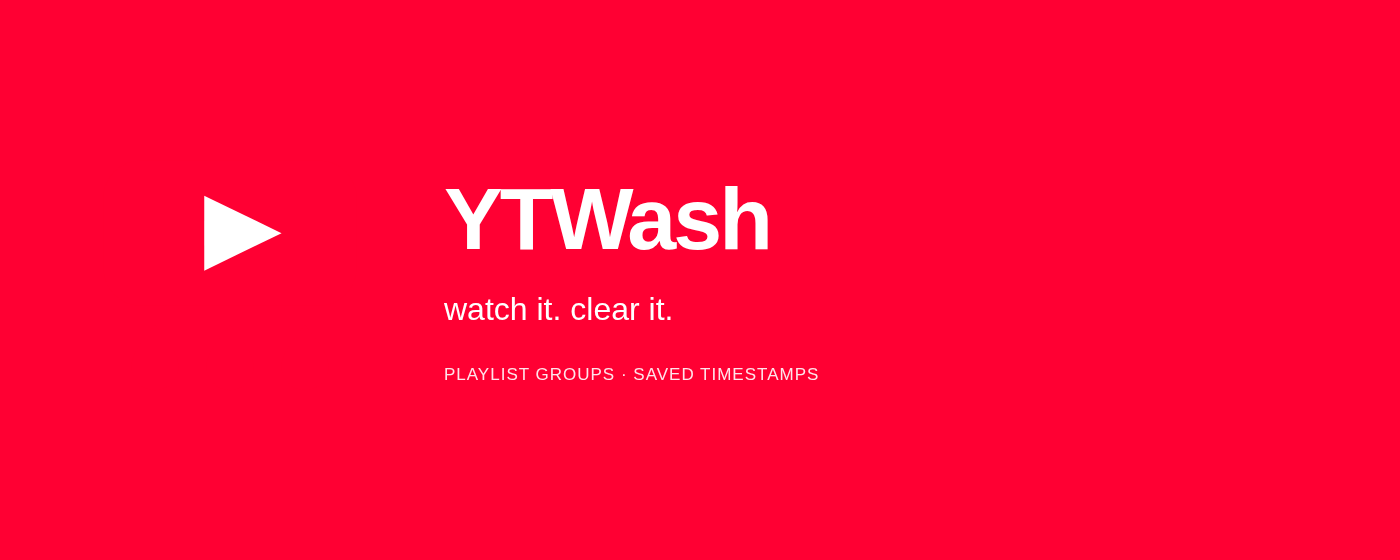
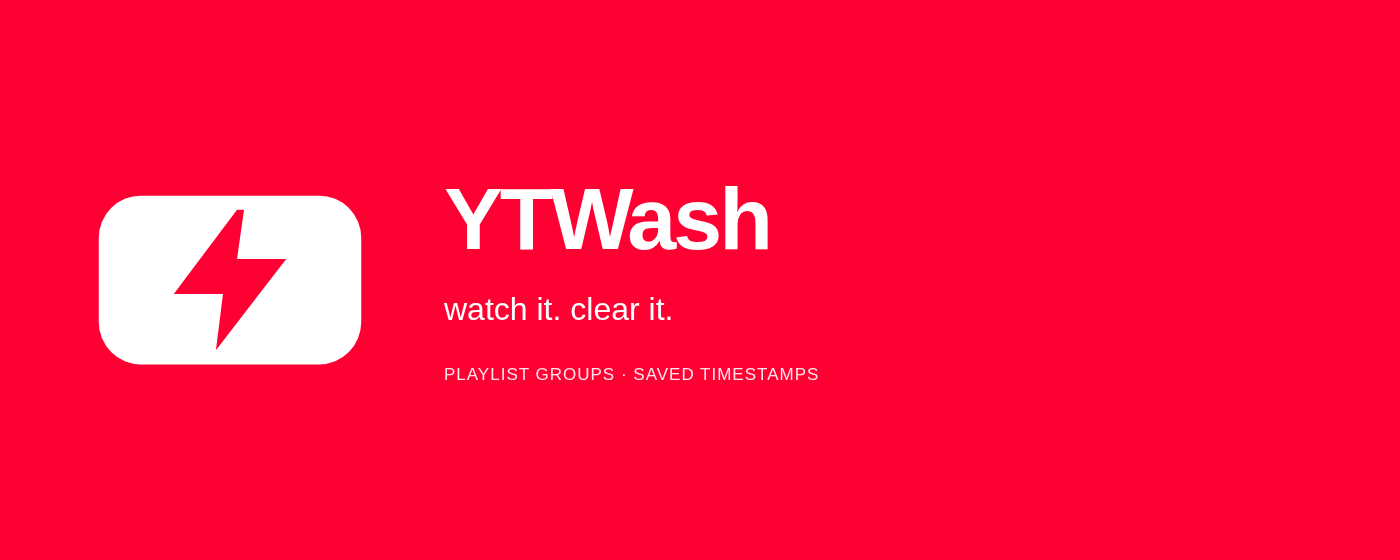
Use Save lightning symbol on a white button for branding

Changed region(s): [[0.0614, 0.3339, 0.2764, 0.6679]]

diff --git a/assets/brand/social-preview.html b/assets/brand/social-preview.html
@@ -5,5 +5,5 @@
   .copy{flex:1}h1{font-size:88px;letter-spacing:-3px;margin:0 0 24px;line-height:1}
   p{font-size:32px;line-height:1.4;margin:0;max-width:720px;font-weight:500}
   .features{font-size:17px;letter-spacing:1px;margin-top:34px;color:#ffe4eb}
-  </style></head><body><div class="logo"><svg xmlns="http://www.w3.org/2000/svg" viewBox="0 0 512 512" role="img" aria-label="YTWash play button and rain"><rect x="40" y="52" width="432" height="248" rx="64" fill="#ff0033"/><path d="M212 112L344 176 212 240Z" fill="#fff"/><g fill="#ff0033"><path id="drop" d="M128 332C116 351 88 376 88 404a40 40 0 0 0 80 0c0-28-28-53-40-72Z"/><use href="#drop" x="128"/><use href="#drop" x="256"/></g></svg>
+  </style></head><body><div class="logo"><svg xmlns="http://www.w3.org/2000/svg" viewBox="0 0 512 512" role="img" aria-label="YTWash"><rect x="32" y="112" width="448" height="288" rx="72" fill="#fff"/><path d="M13 2 4 14h7l-1 8 10-13h-7l1-7z" transform="translate(112 112) scale(12)" fill="#ff0033"/></svg>
 </div><div class="copy"><h1>YTWash</h1><p>watch it. clear it.</p><div class="features">PLAYLIST GROUPS · SAVED TIMESTAMPS</div></div></body></html>

diff --git a/assets/brand/store-marquee.html b/assets/brand/store-marquee.html
@@ -5,5 +5,5 @@
   .copy{flex:1}h1{font-size:88px;letter-spacing:-3px;margin:0 0 24px;line-height:1}
   p{font-size:32px;line-height:1.4;margin:0;max-width:720px;font-weight:500}
   .features{font-size:17px;letter-spacing:1px;margin-top:34px;color:#ffe4eb}
-  </style></head><body><div class="logo"><svg xmlns="http://www.w3.org/2000/svg" viewBox="0 0 512 512" role="img" aria-label="YTWash play button and rain"><rect x="40" y="52" width="432" height="248" rx="64" fill="#ff0033"/><path d="M212 112L344 176 212 240Z" fill="#fff"/><g fill="#ff0033"><path id="drop" d="M128 332C116 351 88 376 88 404a40 40 0 0 0 80 0c0-28-28-53-40-72Z"/><use href="#drop" x="128"/><use href="#drop" x="256"/></g></svg>
+  </style></head><body><div class="logo"><svg xmlns="http://www.w3.org/2000/svg" viewBox="0 0 512 512" role="img" aria-label="YTWash"><rect x="32" y="112" width="448" height="288" rx="72" fill="#fff"/><path d="M13 2 4 14h7l-1 8 10-13h-7l1-7z" transform="translate(112 112) scale(12)" fill="#ff0033"/></svg>
 </div><div class="copy"><h1>YTWash</h1><p>watch it. clear it.</p><div class="features">PLAYLIST GROUPS · SAVED TIMESTAMPS</div></div></body></html>

diff --git a/assets/brand/store-tile.html b/assets/brand/store-tile.html
@@ -5,5 +5,5 @@
   .copy{flex:1}h1{font-size:38px;letter-spacing:-3px;margin:0 0 12px;line-height:1}
   p{font-size:17px;line-height:1.4;margin:0;max-width:720px;font-weight:500}
   .features{font-size:11px;letter-spacing:0px;margin-top:18px;color:#ffe4eb}
-  </style></head><body><div class="logo"><svg xmlns="http://www.w3.org/2000/svg" viewBox="0 0 512 512" role="img" aria-label="YTWash play button and rain"><rect x="40" y="52" width="432" height="248" rx="64" fill="#ff0033"/><path d="M212 112L344 176 212 240Z" fill="#fff"/><g fill="#ff0033"><path id="drop" d="M128 332C116 351 88 376 88 404a40 40 0 0 0 80 0c0-28-28-53-40-72Z"/><use href="#drop" x="128"/><use href="#drop" x="256"/></g></svg>
+  </style></head><body><div class="logo"><svg xmlns="http://www.w3.org/2000/svg" viewBox="0 0 512 512" role="img" aria-label="YTWash"><rect x="32" y="112" width="448" height="288" rx="72" fill="#fff"/><path d="M13 2 4 14h7l-1 8 10-13h-7l1-7z" transform="translate(112 112) scale(12)" fill="#ff0033"/></svg>
 </div><div class="copy"><h1>YTWash</h1><p>watch it. clear it.</p><div class="features">PLAYLIST GROUPS · SAVED TIMESTAMPS</div></div></body></html>

diff --git a/assets/brand/README.md b/assets/brand/README.md
@@ -1,9 +1,9 @@
 # YTWash publishing assets
 
-Logo: a red play button with a white triangle above three red raindrops. Slogan: **watch it. clear it.**
+Logo: a white rounded video button with the same red lightning SVG used beside YouTube’s Save option. Slogan: **watch it. clear it.**
 
 `logo.svg` is the vector master with outlined lettering and transparent exterior. `favicon.svg` uses the same design. Transparent extension icons are exported at 16, 32, 48, 64, 128, 256, and 512 pixels in `public/icons/`. Site favicons include SVG, PNG, ICO, and a 180px Apple touch icon.
 
 Promotional graphics: 440×280 store tile, 1400×560 store marquee, and 1200×630 social preview. Editable HTML sources are included. Recreate exports using `node scripts/export-brand.mjs` with Playwright Chromium installed.
 
-Palette: red `#ff0033`, white `#ffffff`. Previous outlined text concepts use DejaVu Sans Bold; see FONT-LICENSE.txt. Brush-stroke files and `wash-button.svg` are retained as previous concepts.
+Palette: red `#ff0033`, white `#ffffff`. Previous outlined text concepts use DejaVu Sans Bold; see FONT-LICENSE.txt. Brush-stroke files, `play-rain.svg`, and `wash-button.svg` are retained as previous concepts.
